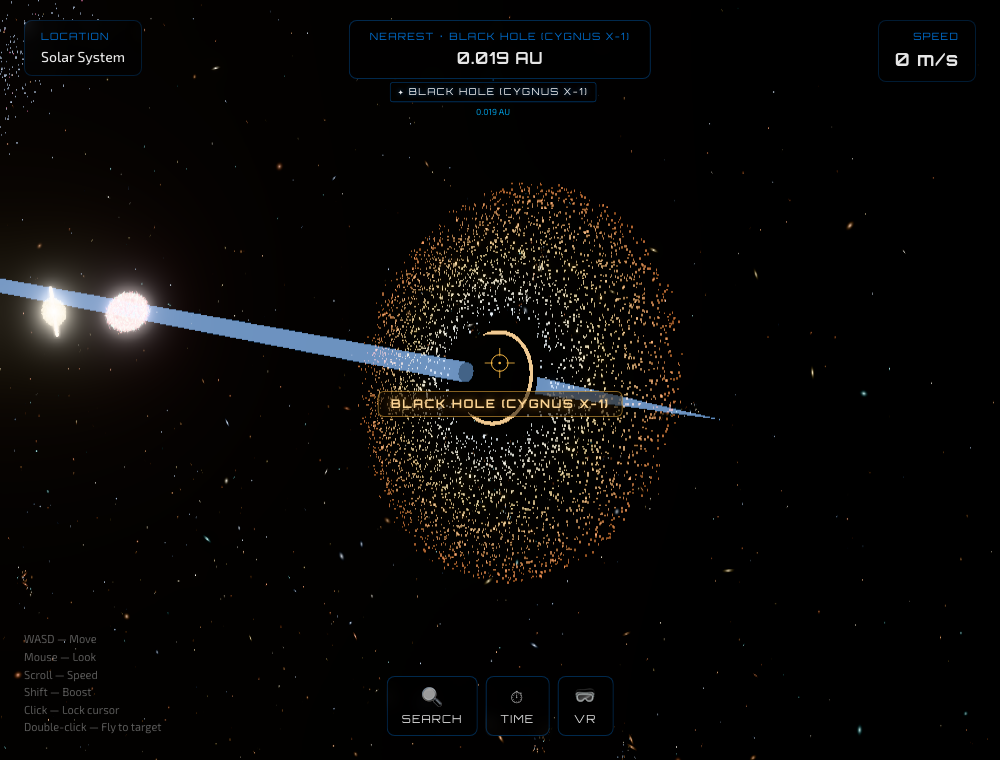
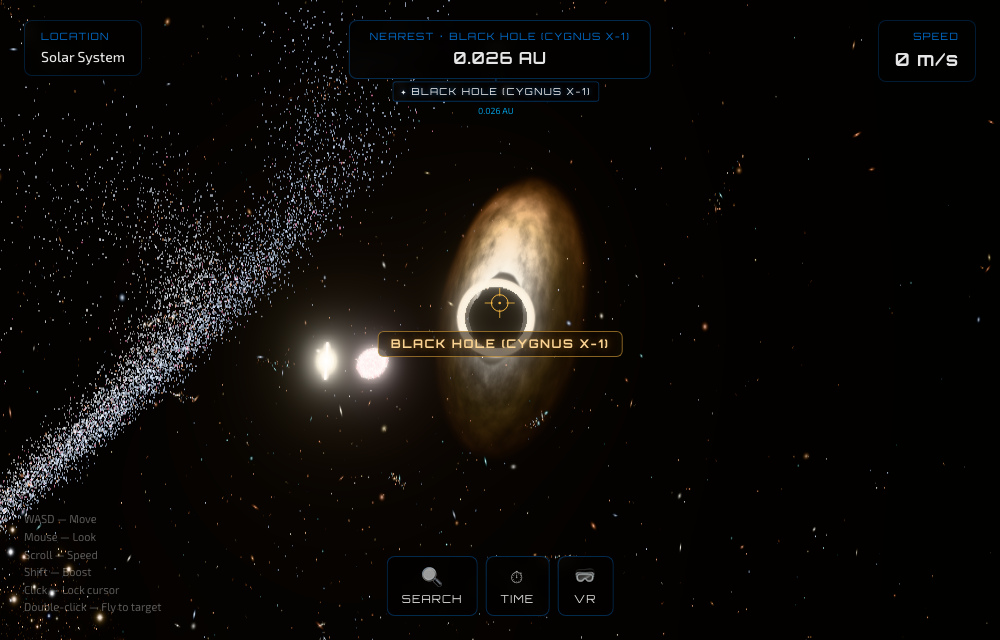
Black hole: Interstellar Gargantua style (shader disk + photon ring halo)
Replace the dotty points disk with a smooth shader accretion disk (white-hot →
orange → red, turbulent, differential rotation, Doppler beaming) + a camera-
facing photon-ring/lensed-halo, around a pure-black event horizon.

diff --git a/src/objects/BlackHole.tsx b/src/objects/BlackHole.tsx
@@ -6,74 +6,111 @@ import { lyToRenderUnits } from '../data/cosmicScale'
 import { useProximityStore } from '../stores/proximityStore'
 
 // ===========================================================================
-// BLACK HOLE — a stellar-mass black hole (Cygnus X-1) with a blazing accretion
-// disk and relativistic jets. Beautiful and genuinely menacing.
+// BLACK HOLE — Interstellar "Gargantua" style.
 // ---------------------------------------------------------------------------
-// Event horizon: a pure-black sphere that occludes everything behind it.
-// Accretion disk: a hot, rotating ring of plasma — white-blue (hottest) inner →
-// orange → red outer. Photon ring: a thin searing rim hugging the horizon.
-// Jets: twin blue-white beams along the spin axis. Real sky direction
-// (Cygnus X-1, RA 19h58m, Dec +35.2°, ~7000 ly).
+// A pitch-black event-horizon sphere, a hot rotating accretion disk (smooth
+// shader, white-hot inner → orange → red outer, with turbulence + Doppler
+// beaming), and a camera-facing halo that supplies the searing photon ring and
+// the lensed glow arcing around the shadow. Cygnus X-1 sky direction.
 // ===========================================================================
 
 const DIR: [number, number, number] = [0.4049, 0.5764, -0.7098]
 const DISTANCE_LY = 7000
-const HORIZON = 42
-const DISK_INNER = 56
-const DISK_OUTER = 190
-const TILT: [number, number, number] = [1.15, 0.4, 0.0]
+const RS = 40 // event-horizon radius
+const DISK_INNER = RS * 1.6
+const DISK_OUTER = RS * 5.5
+const TILT: [number, number, number] = [1.32, 0.5, 0.0] // near edge-on, dramatic
 
-function gaussian(sigma: number): number {
-  let u = 0
-  let v = 0
-  while (u === 0) u = Math.random()
-  while (v === 0) v = Math.random()
-  return sigma * Math.sqrt(-2 * Math.log(u)) * Math.cos(2 * Math.PI * v)
-}
+const NOISE = /* glsl */ `
+  float hash(vec2 p){ p = fract(p*vec2(123.34,456.21)); p += dot(p, p+45.32); return fract(p.x*p.y); }
+  float noise(vec2 p){ vec2 i=floor(p), f=fract(p); f=f*f*(3.0-2.0*f);
+    float a=hash(i), b=hash(i+vec2(1,0)), c=hash(i+vec2(0,1)), d=hash(i+vec2(1,1));
+    return mix(mix(a,b,f.x), mix(c,d,f.x), f.y); }
+  float fbm(vec2 p){ float v=0.0,a=0.5; for(int i=0;i<5;i++){ v+=a*noise(p); p*=2.13; a*=0.5; } return v; }
+`
 
-// Hot accretion-disk plasma: white-blue (inner, hottest) → orange → deep red.
-const HOT = new THREE.Color(0.8, 0.9, 1.0)
-const MID = new THREE.Color(1.0, 0.82, 0.45)
-const COOL = new THREE.Color(1.0, 0.36, 0.16)
-
-function buildDisk(count: number): THREE.BufferGeometry {
-  const positions = new Float32Array(count * 3)
-  const colors = new Float32Array(count * 3)
-  const c = new THREE.Color()
-  for (let i = 0; i < count; i++) {
-    const t = Math.pow(Math.random(), 0.6) // denser toward the inner edge
-    const r = DISK_INNER + t * (DISK_OUTER - DISK_INNER)
-    const ang = Math.random() * Math.PI * 2
-    positions[i * 3] = Math.cos(ang) * r
-    positions[i * 3 + 1] = gaussian(2.2 + t * 4) // thin, flaring outward
-    positions[i * 3 + 2] = Math.sin(ang) * r
-    if (t < 0.5) c.copy(HOT).lerp(MID, t / 0.5)
-    else c.copy(MID).lerp(COOL, (t - 0.5) / 0.5)
-    const b = (1.0 - t * 0.5) * (0.6 + Math.random() * 0.4) // inner brighter
-    colors[i * 3] = c.r * b
-    colors[i * 3 + 1] = c.g * b
-    colors[i * 3 + 2] = c.b * b
+// ---- Flat accretion disk (RingGeometry in its own plane) -------------------
+const DISK_VERT = /* glsl */ `
+  varying vec2 vL;
+  void main(){ vL = position.xy; gl_Position = projectionMatrix * modelViewMatrix * vec4(position, 1.0); }
+`
+const DISK_FRAG = /* glsl */ `
+  precision highp float;
+  varying vec2 vL;
+  uniform float uTime; uniform float uInner; uniform float uOuter;
+  ${NOISE}
+  void main(){
+    float r = length(vL);
+    float t = clamp((r - uInner)/(uOuter - uInner), 0.0, 1.0);
+    float ang = atan(vL.y, vL.x);
+    // Differential rotation: inner orbits faster.
+    float spin = uTime * (0.9 - 0.6*t);
+    float nz = fbm(vec2(ang*3.0 + spin, t*6.0 + 1.0));
+    float nz2 = fbm(vec2(ang*7.0 - spin*1.6, t*12.0));
+    float dens = (0.45 + 0.75*nz) * (0.7 + 0.5*nz2);
+    // Temperature: white-hot inner → orange → deep red.
+    vec3 hot = vec3(1.0, 0.97, 0.88);
+    vec3 mid = vec3(1.0, 0.66, 0.32);
+    vec3 cool = vec3(0.95, 0.30, 0.12);
+    vec3 col = t < 0.5 ? mix(hot, mid, t/0.5) : mix(mid, cool, (t-0.5)/0.5);
+    // Doppler beaming — one side much brighter.
+    float dop = 0.4 + 1.25 * pow(max(0.0, cos(ang - 1.2)), 1.5);
+    float bright = (1.15 - t) * dens * dop;
+    // Soft inner/outer falloff.
+    bright *= smoothstep(0.0, 0.06, t) * smoothstep(1.0, 0.8, t);
+    gl_FragColor = vec4(col * bright, clamp(bright, 0.0, 1.0));
   }
-  const geo = new THREE.BufferGeometry()
-  geo.setAttribute('position', new THREE.BufferAttribute(positions, 3))
-  geo.setAttribute('color', new THREE.BufferAttribute(colors, 3))
-  geo.computeBoundingSphere()
-  return geo
-}
+`
+
+// ---- Camera-facing halo: photon ring + lensed glow round the shadow --------
+const HALO_VERT = DISK_VERT
+const HALO_FRAG = /* glsl */ `
+  precision highp float;
+  varying vec2 vL;
+  uniform float uInner; uniform float uOuter;
+  void main(){
+    float r = length(vL);
+    float t = clamp((r - uInner)/(uOuter - uInner), 0.0, 1.0);
+    // Searing thin photon ring near the inner edge.
+    float ring = smoothstep(0.10, 0.0, abs(t - 0.06));
+    // Soft halo falling off outward, brighter top & bottom (lensed disk arc).
+    float ang = atan(vL.y, vL.x);
+    float arc = 0.55 + 0.45 * abs(sin(ang));
+    float halo = pow(1.0 - t, 2.2) * 0.5 * arc;
+    float a = ring * 1.6 + halo;
+    vec3 c = mix(vec3(1.0, 0.93, 0.78), vec3(1.0, 0.5, 0.22), t);
+    gl_FragColor = vec4(c * a, clamp(a, 0.0, 1.0));
+  }
+`
 
 export default function BlackHole() {
   const center = useMemo(
     () => new THREE.Vector3(...DIR).normalize().multiplyScalar(lyToRenderUnits(DISTANCE_LY)),
     [],
   )
-  const diskRef = useRef<THREE.Points>(null)
-  const disk = useMemo(() => buildDisk(4500), [])
+  const diskRef = useRef<THREE.ShaderMaterial>(null)
+  const haloRef = useRef<THREE.Mesh>(null)
+
   const diskMat = useMemo(
     () =>
-      new THREE.PointsMaterial({
-        size: 2.4,
-        sizeAttenuation: true,
-        vertexColors: true,
+      new THREE.ShaderMaterial({
+        vertexShader: DISK_VERT,
+        fragmentShader: DISK_FRAG,
+        uniforms: { uTime: { value: 0 }, uInner: { value: DISK_INNER }, uOuter: { value: DISK_OUTER } },
+        transparent: true,
+        depthWrite: false,
+        side: THREE.DoubleSide,
+        blending: THREE.AdditiveBlending,
+        toneMapped: false,
+      }),
+    [],
+  )
+  const haloMat = useMemo(
+    () =>
+      new THREE.ShaderMaterial({
+        vertexShader: HALO_VERT,
+        fragmentShader: HALO_FRAG,
+        uniforms: { uInner: { value: RS * 1.15 }, uOuter: { value: RS * 3.4 } },
         transparent: true,
         depthWrite: false,
         blending: THREE.AdditiveBlending,
@@ -90,44 +127,35 @@ export default function BlackHole() {
       position: [center.x, center.y, center.z],
       radius: DISK_OUTER,
       kind: 'structure',
-      labelRange: DISK_OUTER * 14,
+      labelRange: DISK_OUTER * 16,
     })
     return () => store.unregisterBody('cygnus-x1')
   }, [center])
 
-  useFrame((_, delta) => {
-    if (diskRef.current) diskRef.current.rotation.y += Math.min(delta, 0.1) * 0.25
+  useFrame((state) => {
+    if (diskRef.current) diskRef.current.uniforms.uTime.value = state.clock.elapsedTime
+    if (haloRef.current) haloRef.current.quaternion.copy(state.camera.quaternion)
   })
 
   return (
-    <group position={[center.x, center.y, center.z]} rotation={TILT}>
-      {/* Event horizon — pure black, occludes everything behind it. */}
-      <mesh>
-        <sphereGeometry args={[HORIZON, 48, 48]} />
-        <meshBasicMaterial color="#000000" toneMapped={false} />
-      </mesh>
-      {/* Photon ring — a thin searing rim hugging the horizon. */}
-      <mesh rotation={[Math.PI / 2, 0, 0]}>
-        <torusGeometry args={[HORIZON * 1.06, HORIZON * 0.04, 16, 96]} />
-        <meshBasicMaterial color="#ffd8a0" toneMapped={false} />
-      </mesh>
-      {/* Accretion disk. */}
-      <points ref={diskRef} geometry={disk} material={diskMat} frustumCulled={false} />
-      {/* Relativistic jets — twin beams along the spin axis. */}
-      {[1, -1].map((s) => (
-        <mesh key={s} position={[0, s * DISK_OUTER * 1.6, 0]} rotation={[s < 0 ? Math.PI : 0, 0, 0]}>
-          <coneGeometry args={[10, DISK_OUTER * 3.2, 16, 1, true]} />
-          <meshBasicMaterial
-            color="#9cc8ff"
-            transparent
-            opacity={0.28}
-            side={THREE.DoubleSide}
-            depthWrite={false}
-            blending={THREE.AdditiveBlending}
-            toneMapped={false}
-          />
+    <group position={[center.x, center.y, center.z]}>
+      <group rotation={TILT}>
+        {/* Event horizon — pure black, occludes everything behind it. */}
+        <mesh>
+          <sphereGeometry args={[RS, 64, 64]} />
+          <meshBasicMaterial color="#000000" toneMapped={false} />
         </mesh>
-      ))}
+        {/* Accretion disk, flat in this plane. */}
+        <mesh rotation={[-Math.PI / 2, 0, 0]}>
+          <ringGeometry args={[DISK_INNER, DISK_OUTER, 160, 1]} />
+          <primitive object={diskMat} ref={diskRef} attach="material" />
+        </mesh>
+      </group>
+      {/* Photon ring + lensed halo — always faces the camera. */}
+      <mesh ref={haloRef}>
+        <ringGeometry args={[RS * 1.15, RS * 3.4, 96, 1]} />
+        <primitive object={haloMat} attach="material" />
+      </mesh>
     </group>
   )
 }